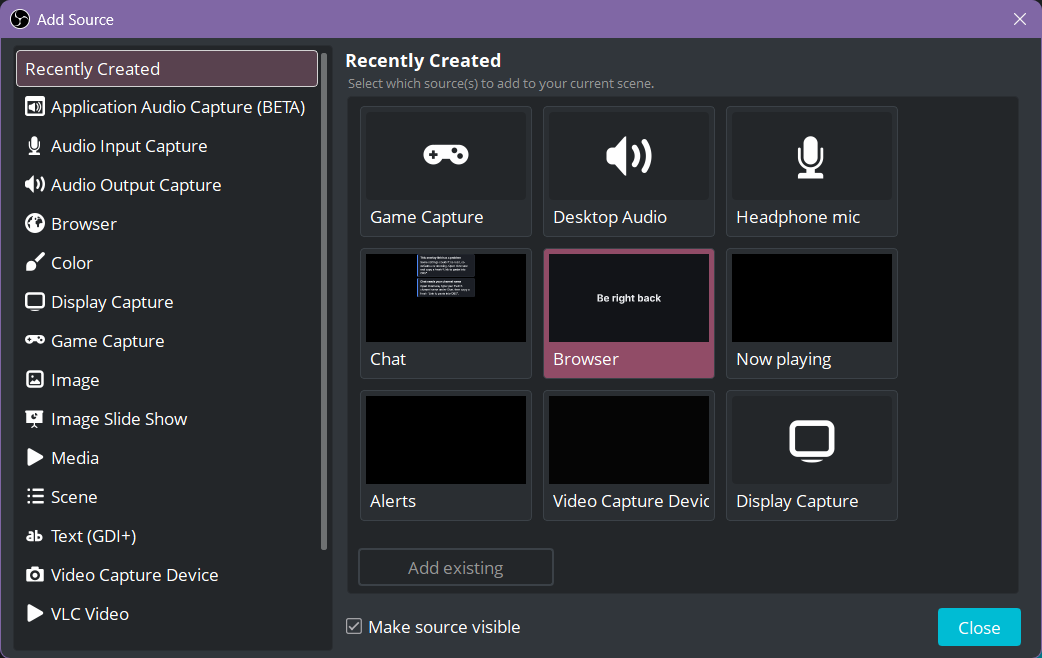
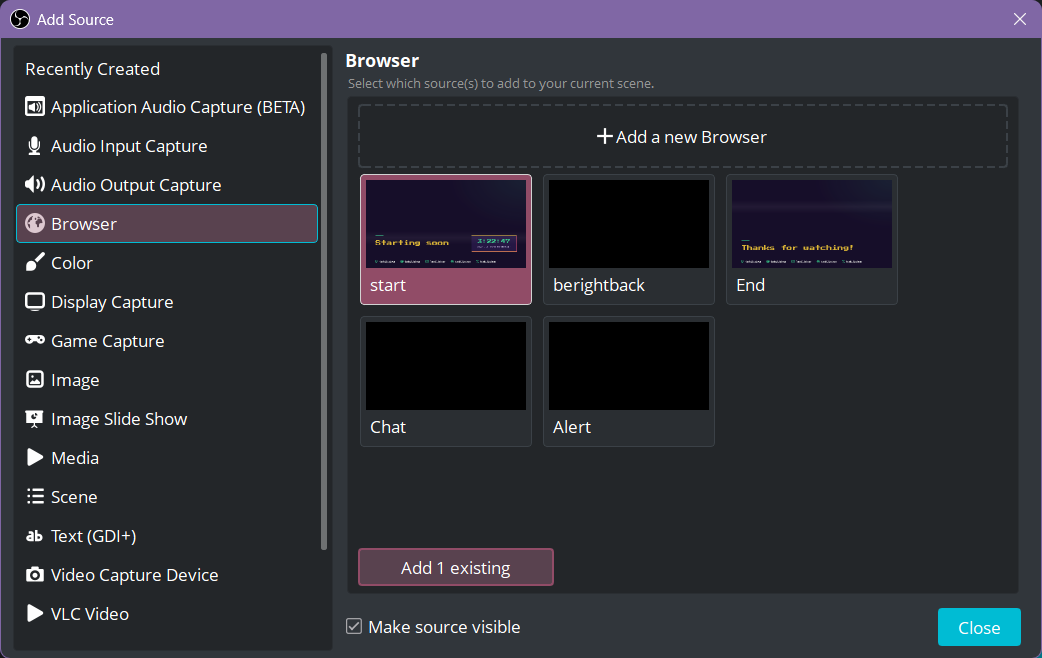
docs: new OBS screenshots for the setup guide (T6.65)
The owner retook the two screenshots that showed the retired centered
overlay design. Step 1 now names OBS 32's Add a new Browser button.

diff --git a/src/editor/SetupGuide.tsx b/src/editor/SetupGuide.tsx
@@ -52,8 +52,9 @@ export default function SetupGuide() {
             </li>
             <li>
               In OBS, find the <strong>Sources</strong> box at the bottom. Press <strong>+</strong>.
-              In the list on the left, choose <strong>Browser</strong>. Give it a name, like
-              “Starting Soon”, and press <strong>OK</strong>.
+              In the list on the left, choose <strong>Browser</strong>, then press{" "}
+              <strong>Add a new Browser</strong> at the top. Give it a name, like “Starting Soon”,
+              and press <strong>OK</strong>.
             </li>
             <li>
               Delete what is in the <strong>URL</strong> box and paste your link.
@@ -65,7 +66,7 @@ export default function SetupGuide() {
           </ol>
           <Shot
             file="obs-add-browser.png"
-            alt="The OBS Add Source window, with Browser in the list on the left."
+            alt="The OBS Add Source window, with Browser chosen in the list on the left and Add a new Browser at the top."
           />
           <table className="guide-sizes">
             <caption>Sizes to type in</caption>

diff --git a/docs/TASKS.md b/docs/TASKS.md
@@ -338,9 +338,10 @@ Found by going through the live site after T6.54-T6.61. One branch and PR per ta
 - [x] **T6.64 Link rows in the narrow settings column.** At 400px the size chips wrap one at a time ("Height 1080" alone under the name) and the raw links are cut short.
   - Accept: where the row is narrow, the size chips sit on their own line under the name; the raw link uses the full row width. Wider rows unchanged. Screen-reader text and the guide's size check unchanged.
   - *Built 2026-10-03 on `fix/link-rows-narrow` (stacked on T6.63). Each link row is a CSS container; at 480px or narrower the name takes its own line and the two chips sit together under it, lined up with the name. Wider rows (the 801–1199px layout, the alert test link) are unchanged. The raw link stays beside the Copy button; it already shows the start of the address and is fully selectable, so it wasn't moved. e2e: chips under the name, on one line, lined up, and the row's text unchanged (fails without the change). Owner merged PR #97 (2026-10-03); checked on production the same day. No overlay change, so no OBS test.*
-- [ ] **T6.65 New OBS screenshots for the setup guide (owner).** `public/images/guide/obs-add-browser.png` and `obs-properties.png` show the retired centered overlay design ("Be right back" in the middle). They're real OBS screenshots, so only the owner can retake them. Same time: decide whether the guide keeps "About 5 minutes".
+- [ ] **T6.65 New OBS screenshots for the setup guide (owner).** `public/images/guide/obs-add-browser.png` and `obs-refresh.png` show the retired centered overlay design ("Be right back" in the middle). They're real OBS screenshots, so only the owner can retake them. Same time: decide whether the guide keeps "About 5 minutes".
   - Accept: the guide's screenshots show the current overlay design. Alt text still describes them.
   - *Deferred (2026-10-03): the owner will retake them later.*
+  - *Owner retook both on 2026-10-03 (OBS Studio 32, the Arcade 8-Bit look): the Add Source window with Browser chosen and "Add a new Browser" at the top, and the Be Right Back source's Properties scrolled to Refresh cache of current page. `obs-properties.png` and `obs-audio-mixer.png` show no overlay design, so they stay. The guide's step 1 now says to press Add a new Browser, and the picture's description matches. ASSETS.md row updated. "About 5 minutes" is still the owner's call. Waiting for the owner's check.*
 - [x] **T6.66 The preview never covers the links.** Found while building T6.64: since T6.60 moved the links into the editor's body grid at full width, on 801-1199px windows the sticky preview column slides over all five link rows at the bottom of the page and covers their Copy buttons. Live on production.
   - Accept: at every width the links are fully visible and clickable when scrolled to; the preview stays sticky. e2e at 900, 1100 and 1440px.
   - *Built 2026-10-03 on `fix/links-under-preview` (stacked on T6.64). The links take the form column (column 1) instead of the full width, so the sticky preview stays beside them. 1200px and up already put them in the settings column; 800px and below is one column. e2e: no link row overlaps the preview column at 900, 1100 and 1440px, and Copy is clickable (900 and 1100 fail without the fix). Owner merged PR #98 (2026-10-03); checked on production the same day. No overlay change, so no OBS test.*

diff --git a/docs/ASSETS.md b/docs/ASSETS.md
@@ -13,7 +13,7 @@ Every font, sound, image and icon shipped with Overlune must be listed here befo
 | `public/sounds/clean-slate.ogg` (Kenney Interface Sounds 1.0, `confirmation_002.ogg`, unchanged) | sound | Clean Slate alert sound | https://kenney.nl/assets/interface-sounds | CC0 1.0 | No (credit to Kenney appreciated) | 2026-10-01 |
 | `public/sounds/neon-grid.ogg` (Kenney Sci-Fi Sounds 1.0, `forceField_000.ogg`, unchanged) | sound | Neon Grid alert sound | https://kenney.nl/assets/sci-fi-sounds | CC0 1.0 | No (credit to Kenney appreciated) | 2026-10-01 |
 | `public/sounds/cozy-cafe.ogg` (Kenney Interface Sounds 1.0, `glass_004.ogg`, unchanged) | sound | Cozy Café alert sound | https://kenney.nl/assets/interface-sounds | CC0 1.0 | No (credit to Kenney appreciated) | 2026-10-01 |
-| `public/images/guide/obs-*.png` (4 screenshots of OBS Studio 32) | image | Setup guide (`/guide`) | Captured by the project owner | Own work; OBS Studio UI (GPL-2.0 software) shown for documentation | No | 2026-10-01 |
+| `public/images/guide/obs-*.png` (4 screenshots of OBS Studio 32) | image | Setup guide (`/guide`) | Captured by the project owner | Own work; OBS Studio UI (GPL-2.0 software) shown for documentation | No | 2026-10-01; `obs-add-browser.png` and `obs-refresh.png` retaken 2026-10-03 (T6.65) |
 | `public/images/brand/logo.png`, `public/favicon.png`, `public/favicon.ico`, `public/images/brand/apple-touch-icon.png`, `public/images/brand/og-image.png`, everything in `docs/brand/` (resized, cropped, recolored or composited from the owner's new logo, kept as `docs/brand/logo/overlune-logo-source.png`; banner text set in Quicksand and Nunito, both listed here) | image | Editor header logo; browser tab icon; brand kit (`docs/BRAND.md`) | Made for the project by the owner | Own work | No | 2026-10-01 |
 | Press Start 2P (`@fontsource/press-start-2p` 5.3.0, weight 400) | font | Advanced font picker; Arcade 8-Bit (T6.1) | https://fontsource.org/fonts/press-start-2p | SIL OFL 1.1 | No | 2026-10-01 |
 | VT323 (`@fontsource/vt323` 5.3.0, weight 400; `src/themes/vt323.css` adds `size-adjust: 130%`) | font | Advanced font picker; Arcade 8-Bit (T6.1) | https://fontsource.org/fonts/vt323 | SIL OFL 1.1 | No | 2026-10-01 |
